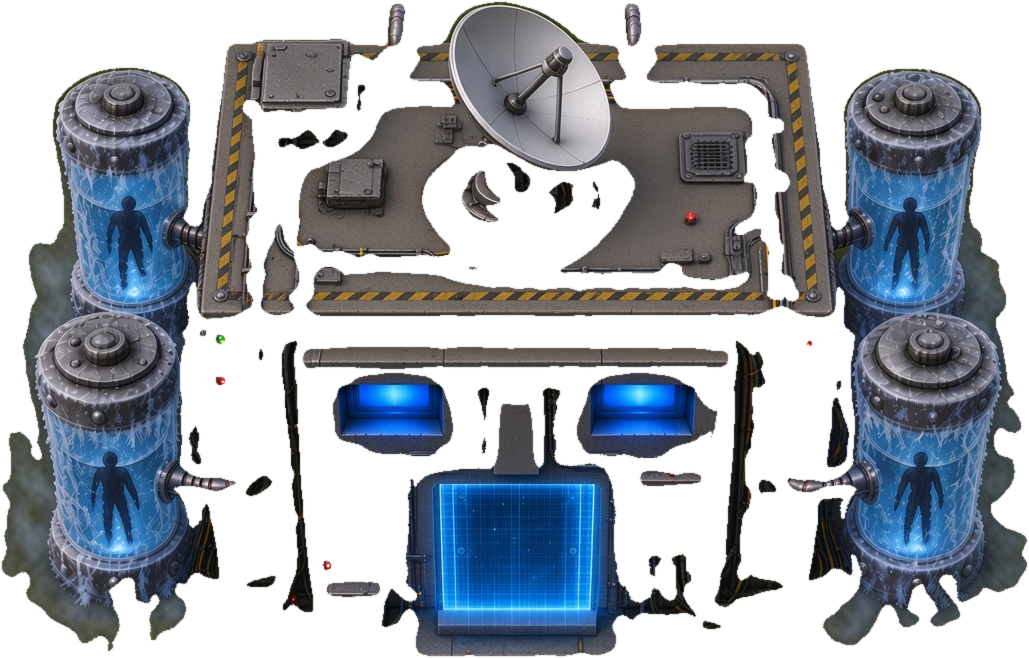
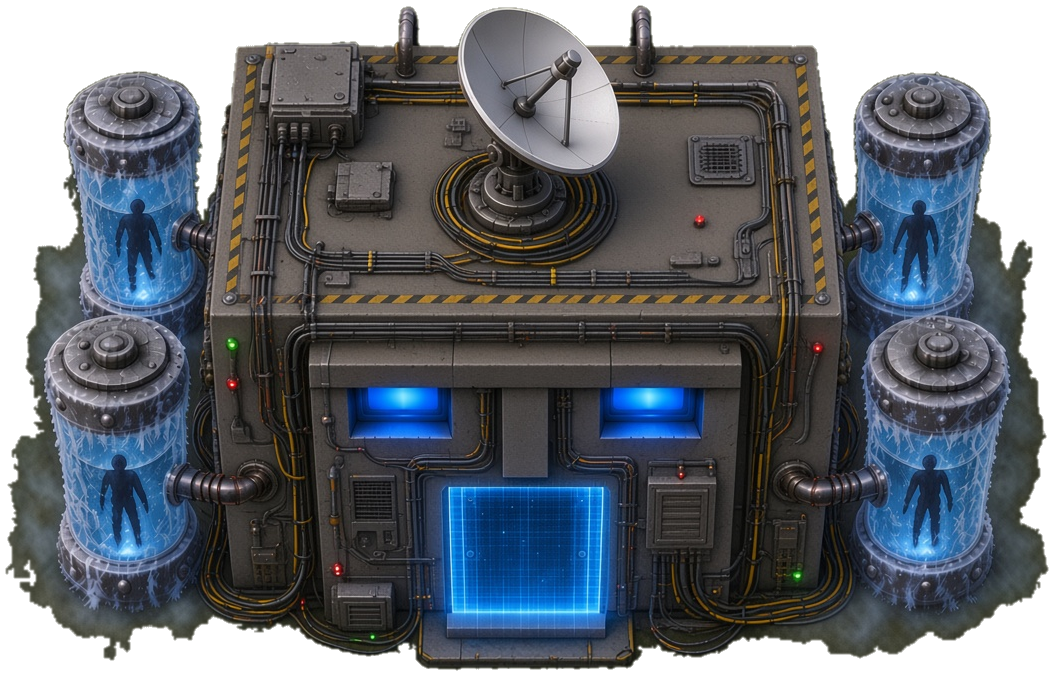
Keep the Silo silhouette opaque when cutting out the grass.
The old key treated grey metal as background, so the roof and walls disappeared. Grass is now only the olive reached from the photo border, and every pixel inside the building stays solid.

diff --git a/src/game/siloArt.ts b/src/game/siloArt.ts
@@ -10,24 +10,24 @@ const cryoUrl = new URL('../assets/silo-cryo.png', import.meta.url).href
  */
 
 const FOOT = 96
-/** Shared source height of both cutouts. Cryo uses this scale, not its own width. */
-const SPRITE_H = 658
+/** Plain cutout height. Cryo uses this same scale, not its own width. */
+const SPRITE_H = 677
 const DRAW_H = 118
 const SCALE = DRAW_H / SPRITE_H
 
 /** Door center in each cutout, so the two bunkers sit on the same tiles. */
-const PLAIN_DOOR = { x: 0.5108, y: 0.8601 }
-const CRYO_DOOR = { x: 0.5057, y: 0.8607 }
+const PLAIN_DOOR = { x: 0.4884, y: 0.8202 }
+const CRYO_DOOR = { x: 0.4967, y: 0.8217 }
 /** Door anchor inside the footprint. The dish overflows above the tile. */
 const DOOR_OX = 48
 const DOOR_OY = 78
 
 /** Front pair fills first, then the back pair. Boxes are fractions of the cryo cutout. */
 const VESSELS: Array<{ x: number; y: number; w: number; h: number }> = [
-  { x: 0.0447, y: 0.6261, w: 0.1215, h: 0.2416 },
-  { x: 0.8319, y: 0.5805, w: 0.1322, h: 0.2888 },
-  { x: 0.0661, y: 0.2508, w: 0.1108, h: 0.2264 },
-  { x: 0.8251, y: 0.2325, w: 0.1147, h: 0.2462 },
+  { x: 0.0427, y: 0.5888, w: 0.1528, h: 0.284 },
+  { x: 0.8027, y: 0.5902, w: 0.1565, h: 0.287 },
+  { x: 0.0626, y: 0.2189, w: 0.1328, h: 0.2751 },
+  { x: 0.8036, y: 0.2101, w: 0.1366, h: 0.284 },
 ]
 
 const WINDOW_COUNT = 8
